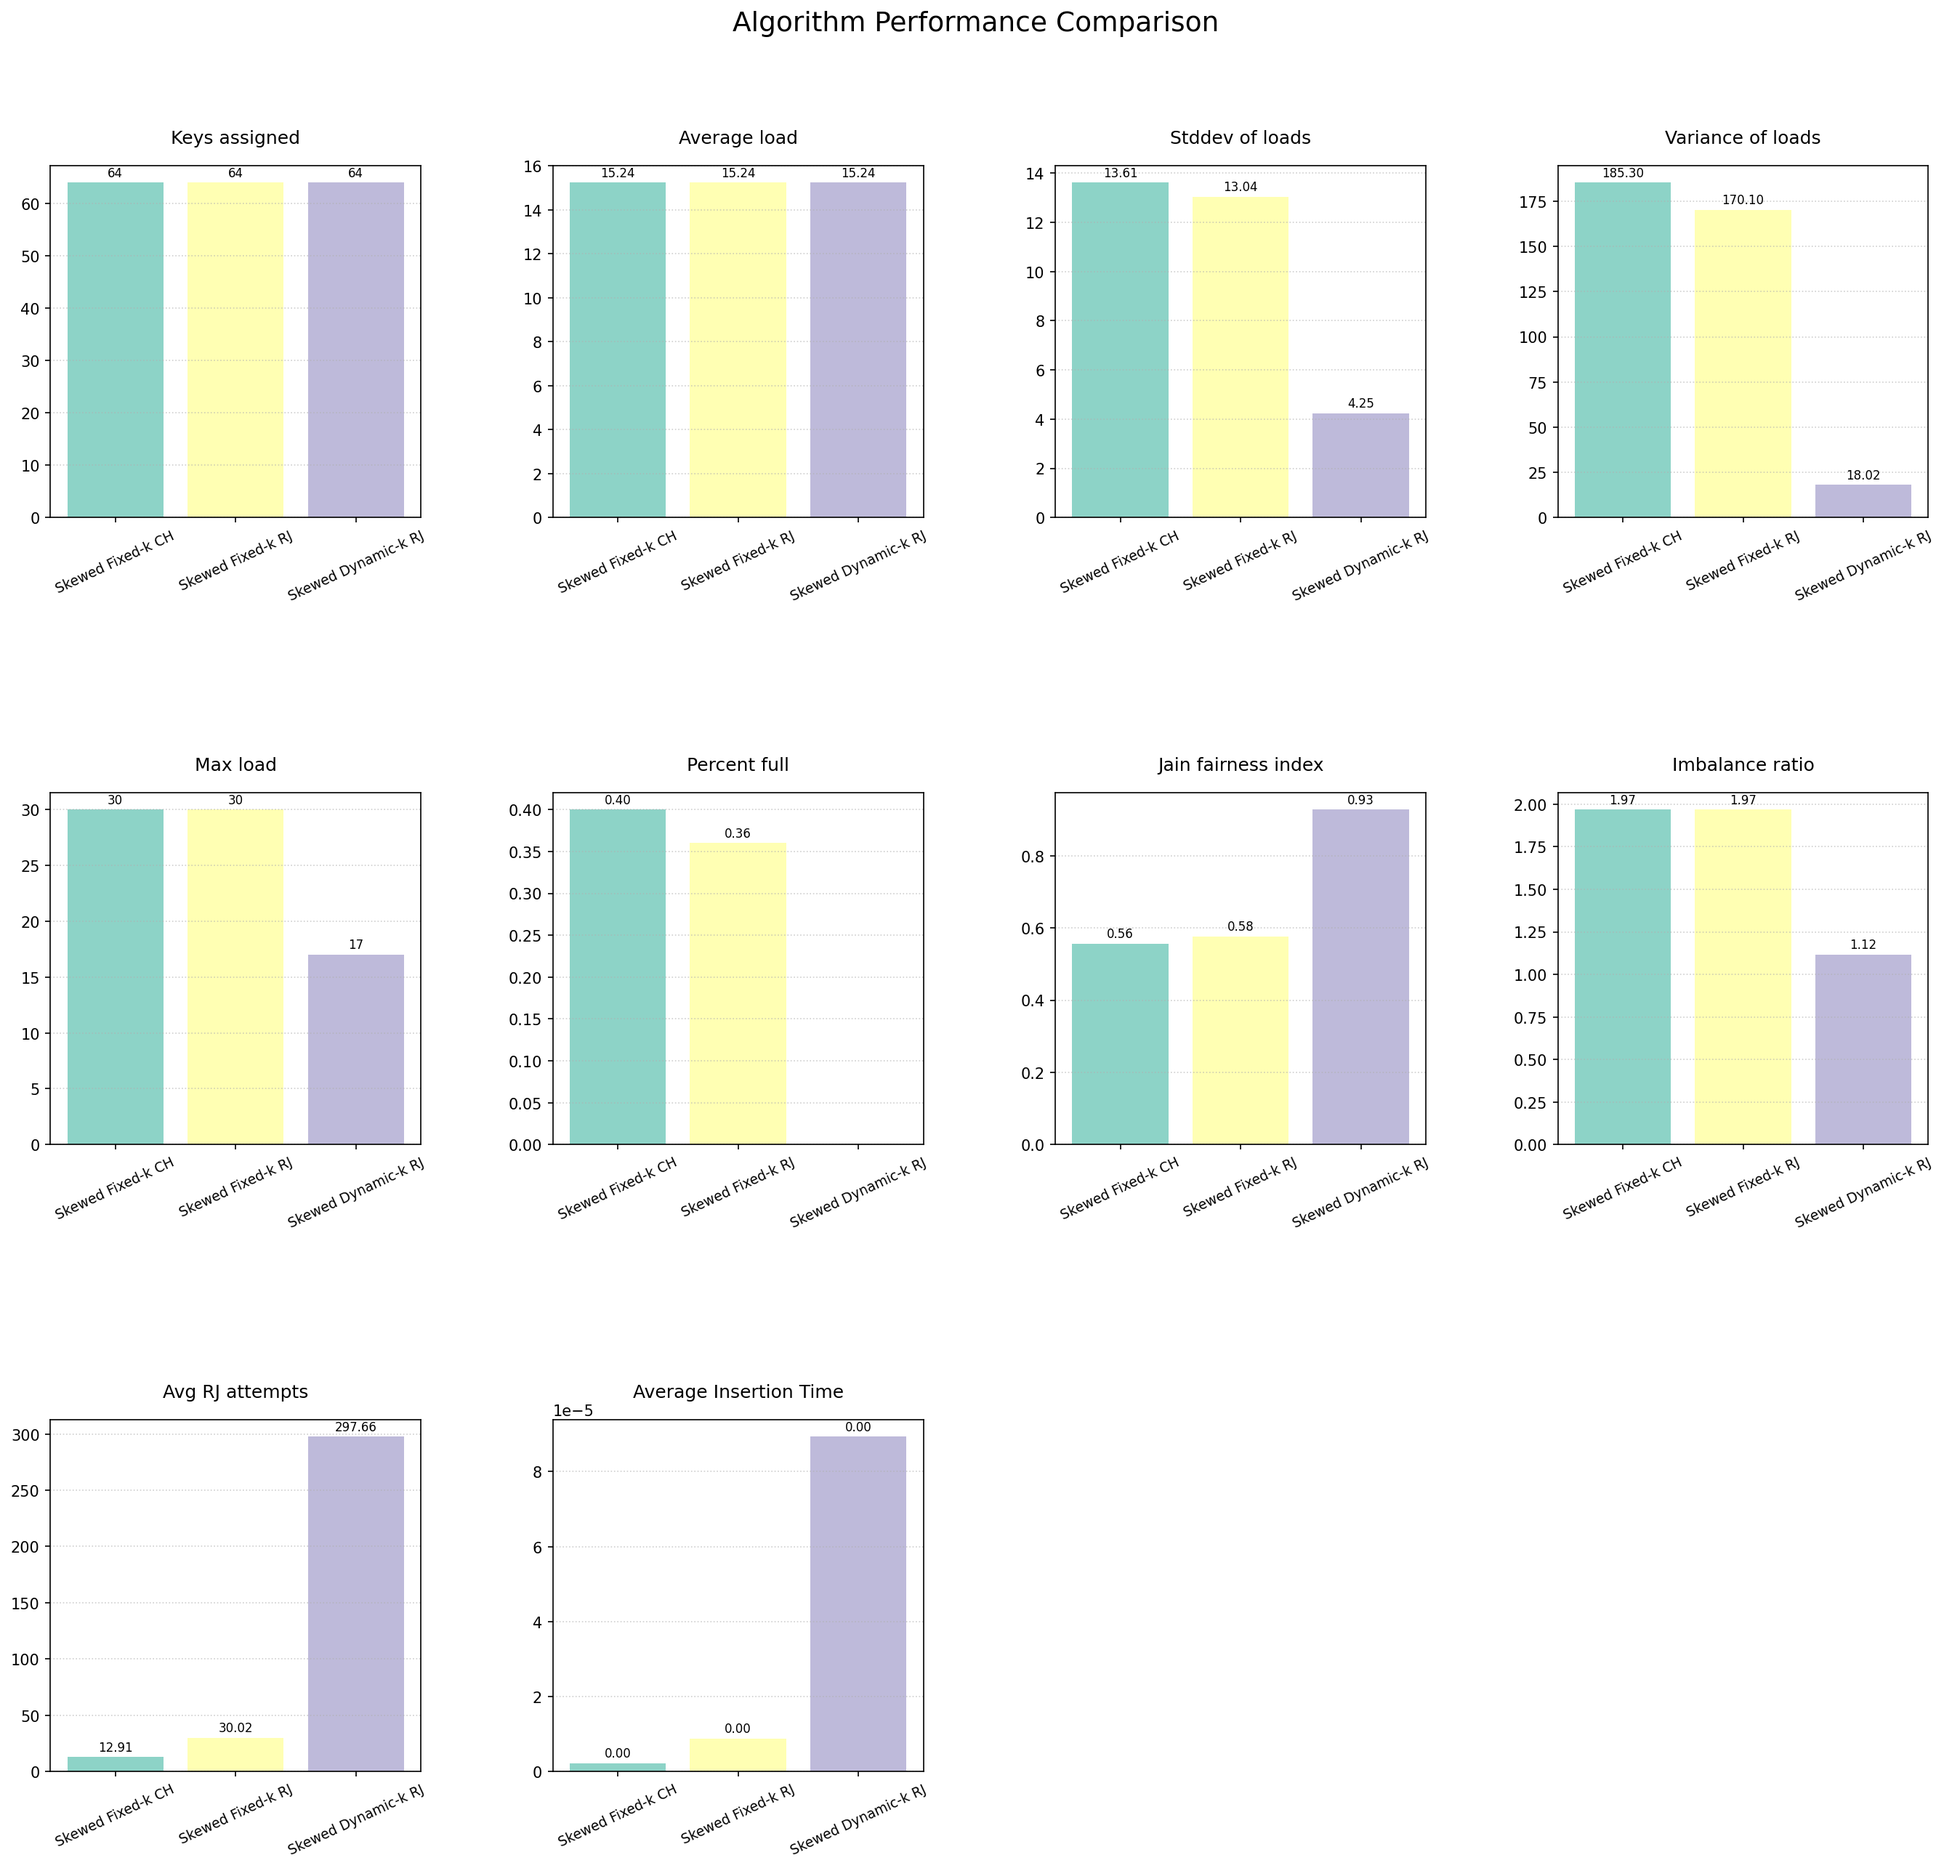
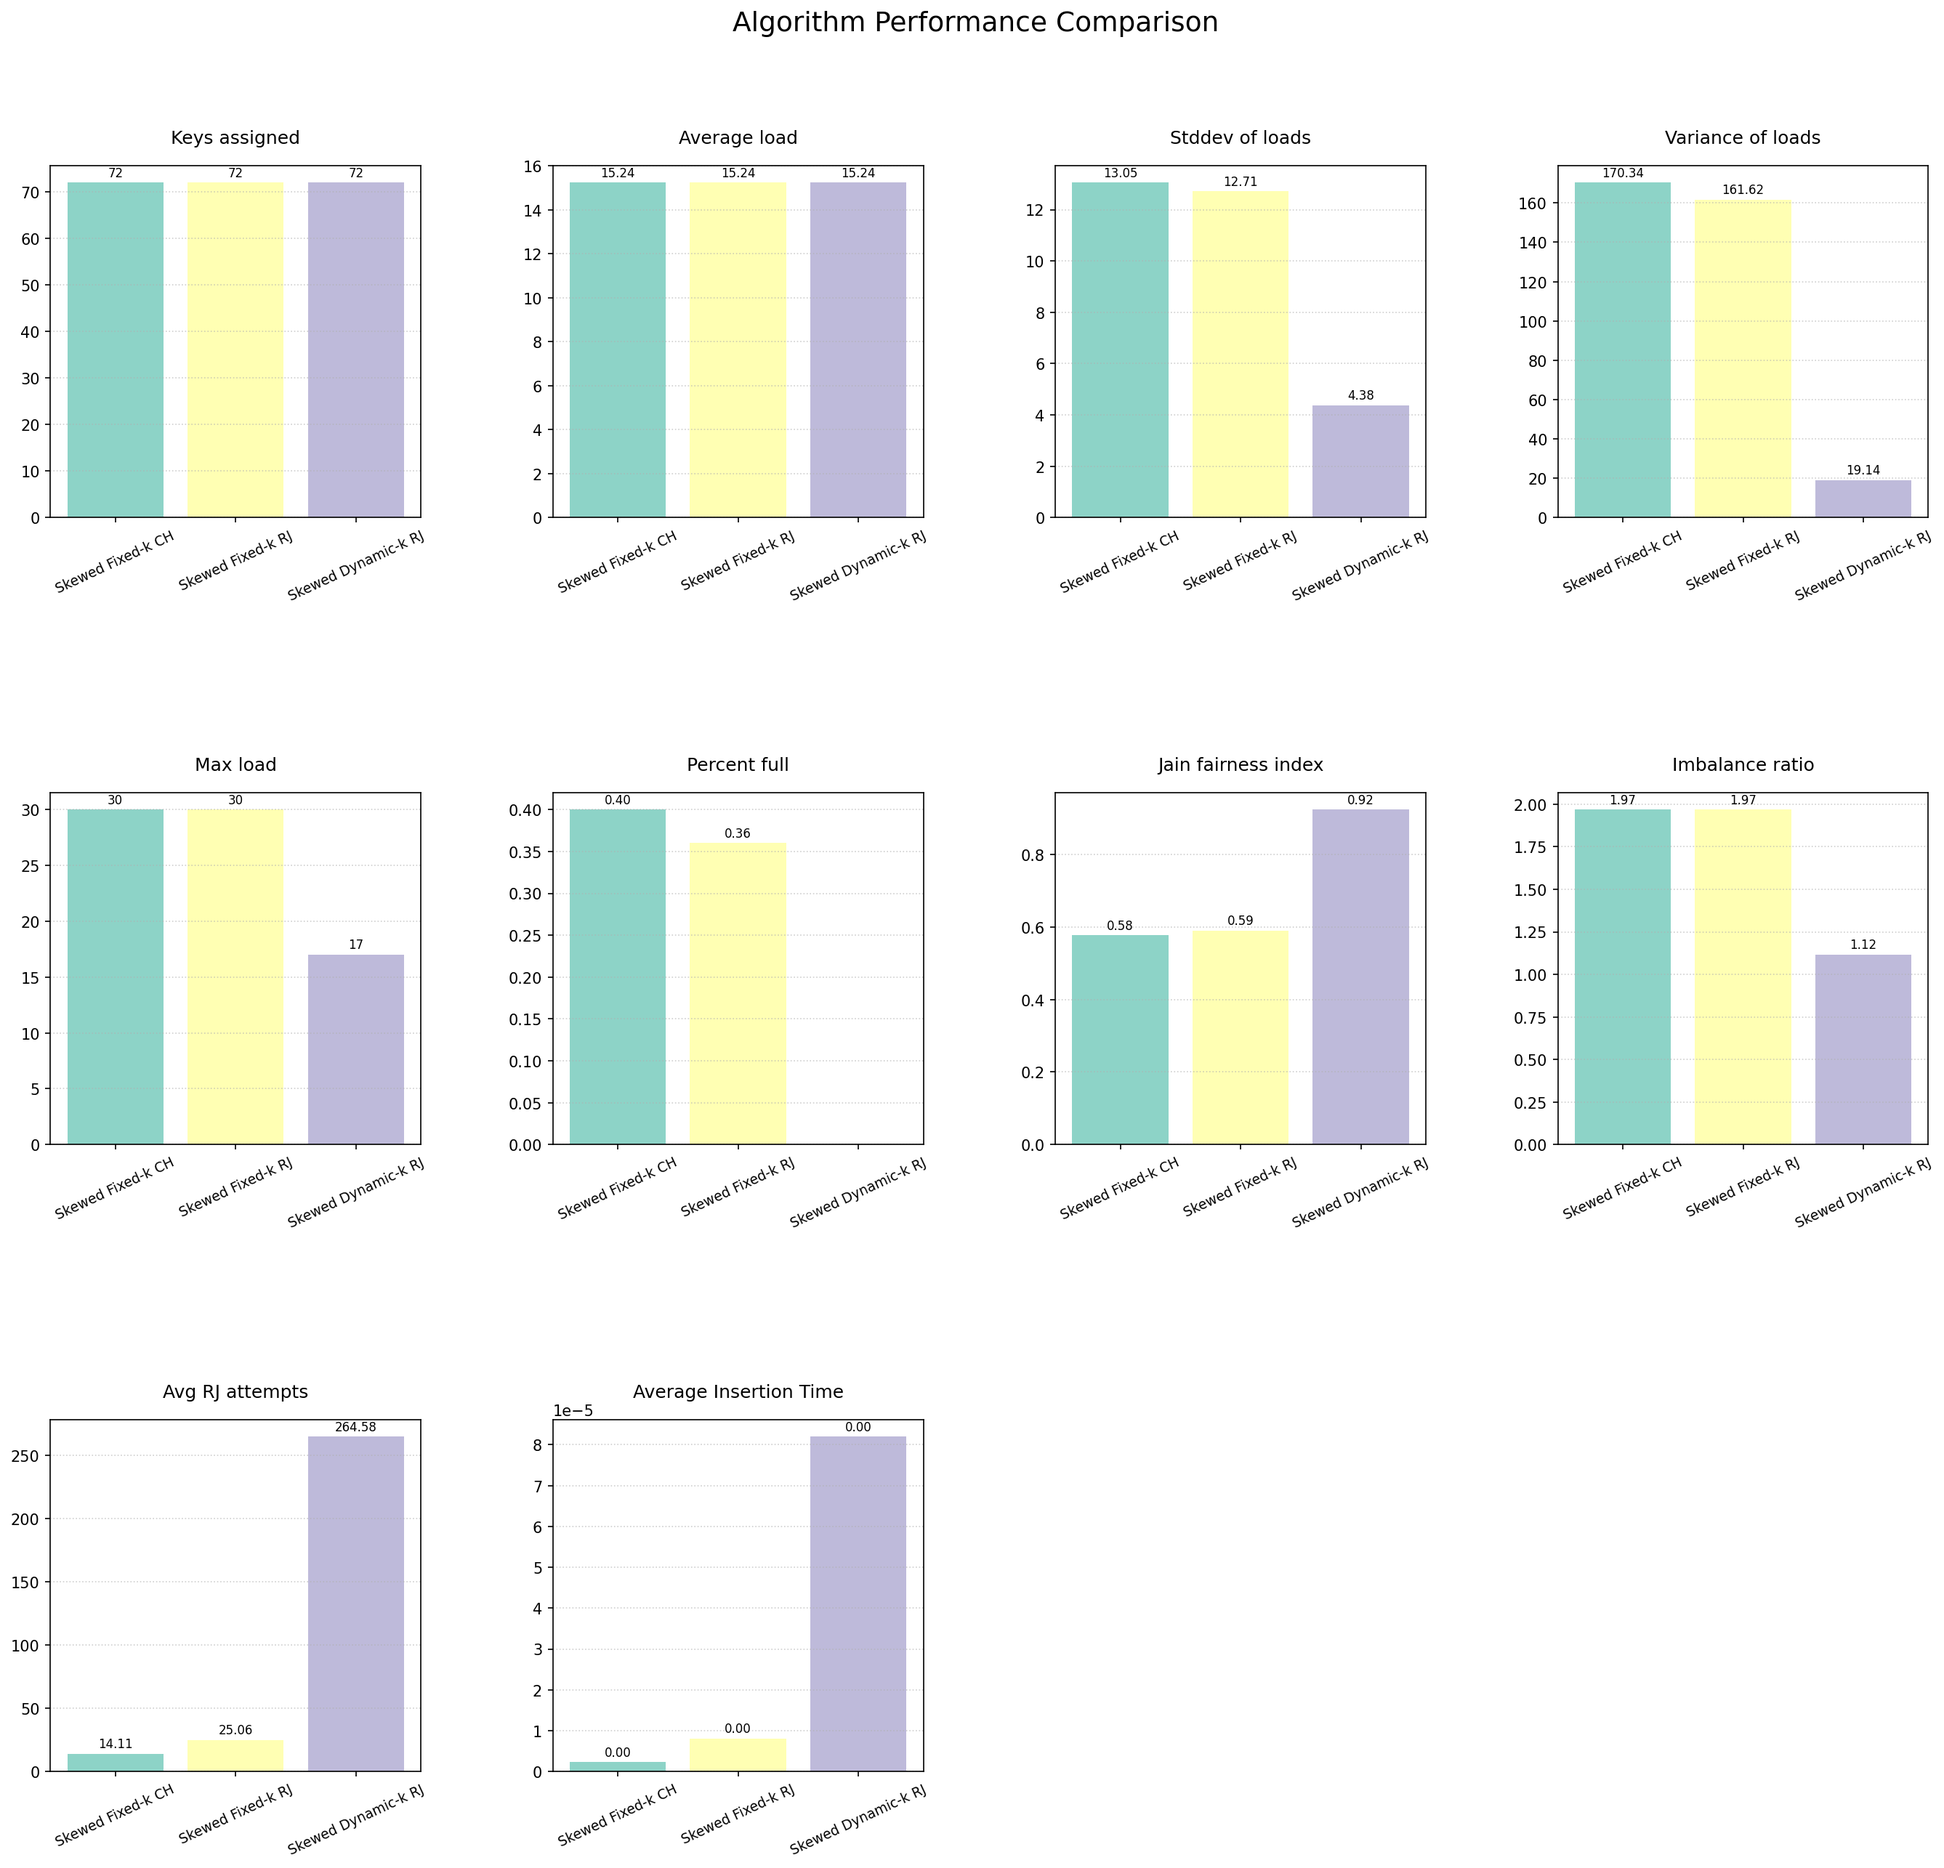
fix code

diff --git a/main_simulation.py b/main_simulation.py
@@ -1,10 +1,8 @@
 from time import time
 from config import (
-    DLB_ZIPF_ALPHA,
-    NUM_KEYS_SKEWED,
+    NUM_KEYS,
     NUM_SERVERS,
     SERVER_CAPACITY,
-    NUM_KEYS_UNIFORM,
     K,
 )
 from data_generator import generate_uniform_keys, generate_zipfian_keys
@@ -17,7 +15,6 @@ import statistics
 
 from metrics import (
     calculate_distribution_metrics,
-    calculate_reassignment_rate,
     measure_lookup_time,
     measure_memory_overhead,
 )
@@ -156,7 +153,7 @@ def run_dynamic_k_rj(keys):
 
 
 def evaluate_metrics():
-    keys = generate_zipfian_keys(NUM_KEYS_SKEWED, total_possible_keys=1000, alpha=1.5)
+    keys = generate_zipfian_keys(NUM_KEYS, total_possible_keys=1000, alpha=1.5)
 
     # Run simulations
     fixed_ch_stats = run_fixed_k_ch(keys)
@@ -171,13 +168,6 @@ def evaluate_metrics():
         metrics = calculate_distribution_metrics(stats["loads"])
         print(f"{label} Distribution Metrics: {metrics}")
 
-    # Evaluate reassignment rate for dynamic scaling
-    old_assignments = dynamic_rj_stats["autoscale_events"]
-    dynamic_rj_stats_after_change = run_dynamic_k_rj(keys)
-    new_assignments = dynamic_rj_stats_after_change["autoscale_events"]
-    reassignment_rate = calculate_reassignment_rate(old_assignments, new_assignments)
-    print(f"Dynamic-k RJ Reassignment Rate: {reassignment_rate:.2%}")
-
     # Evaluate computational efficiency
     lookup_time = measure_lookup_time(dynamic_rj_stats["ring"], keys)
     memory_overhead = measure_memory_overhead(dynamic_rj_stats["ring"])
@@ -191,7 +181,7 @@ def run_multiple_simulations():
     uniform_results = []
 
     for multiplier in key_multipliers:
-        num_keys = int(multiplier * NUM_KEYS_SKEWED)
+        num_keys = int(multiplier * NUM_KEYS)
         skewed_keys = generate_zipfian_keys(num_keys)
         uniform_keys = generate_uniform_keys(num_keys)
 

diff --git a/metrics.py b/metrics.py
@@ -26,27 +26,6 @@ def calculate_distribution_metrics(server_loads):
     }
 
 
-def calculate_reassignment_rate(old_assignments, new_assignments):
-    """
-    Calculate the reassignment rate when the cluster changes.
-
-    Args:
-        old_assignments (dict): Key-to-server assignments before the change.
-        new_assignments (dict): Key-to-server assignments after the change.
-
-    Returns:
-        float: Reassignment rate (percentage of keys reassigned).
-    """
-    total_keys = len(old_assignments)
-    if total_keys == 0:
-        return 0.0
-
-    reassigned_keys = sum(
-        1 for key in old_assignments if old_assignments[key] != new_assignments.get(key)
-    )
-    return reassigned_keys / total_keys
-
-
 def measure_lookup_time(ring, keys):
     """
     Measure the average lookup time for a set of keys.

diff --git a/data_generator.py b/data_generator.py
@@ -1,8 +1,8 @@
 import numpy as np
-from config import NUM_KEYS_UNIFORM, DLB_ZIPF_ALPHA
+from config import NUM_KEYS, DLB_ZIPF_ALPHA
 
 
-def generate_uniform_keys(num_keys=NUM_KEYS_UNIFORM):
+def generate_uniform_keys(num_keys=NUM_KEYS):
     return [f"key_{i}" for i in range(num_keys)]
 
 

diff --git a/config.py b/config.py
@@ -1,8 +1,7 @@
 # Simulation / environment defaults
 NUM_SERVERS = 25
 SERVER_CAPACITY = 30
-NUM_KEYS_UNIFORM = 763
-NUM_KEYS_SKEWED = 763
+NUM_KEYS = 763
 
 # Hash ring tuning
 HASH_SPACE_SIZE = 2**32
